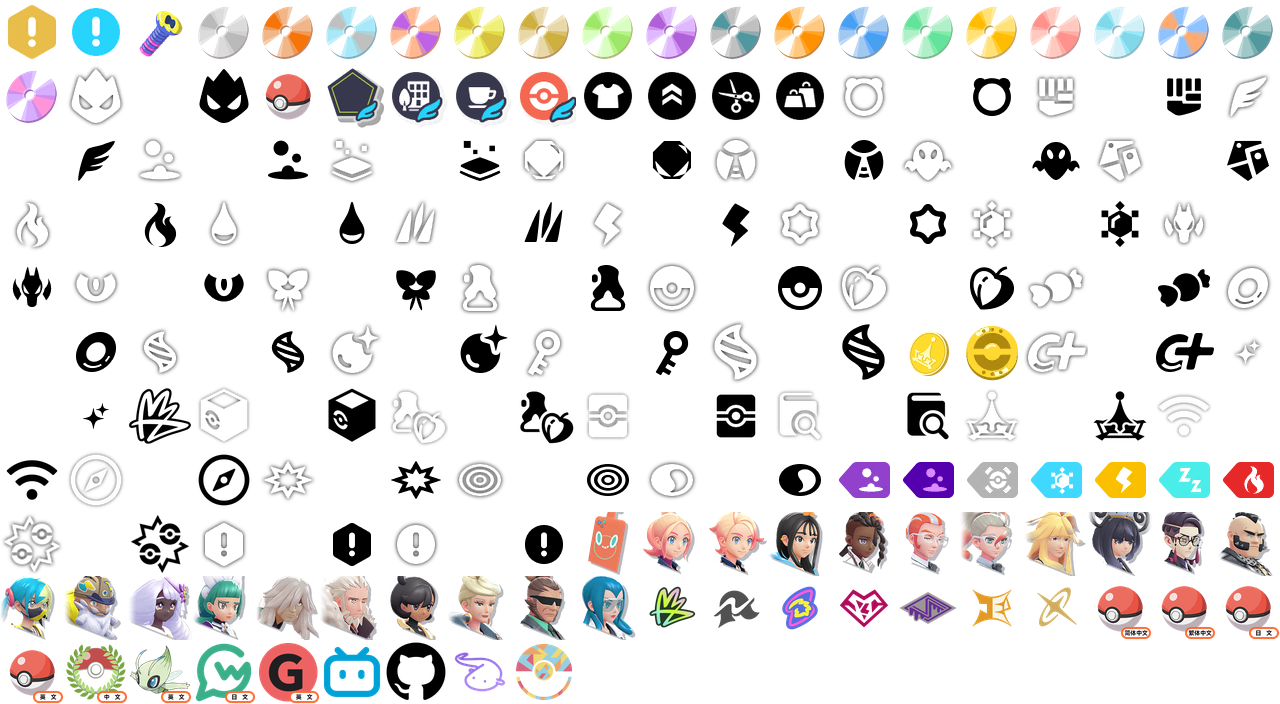
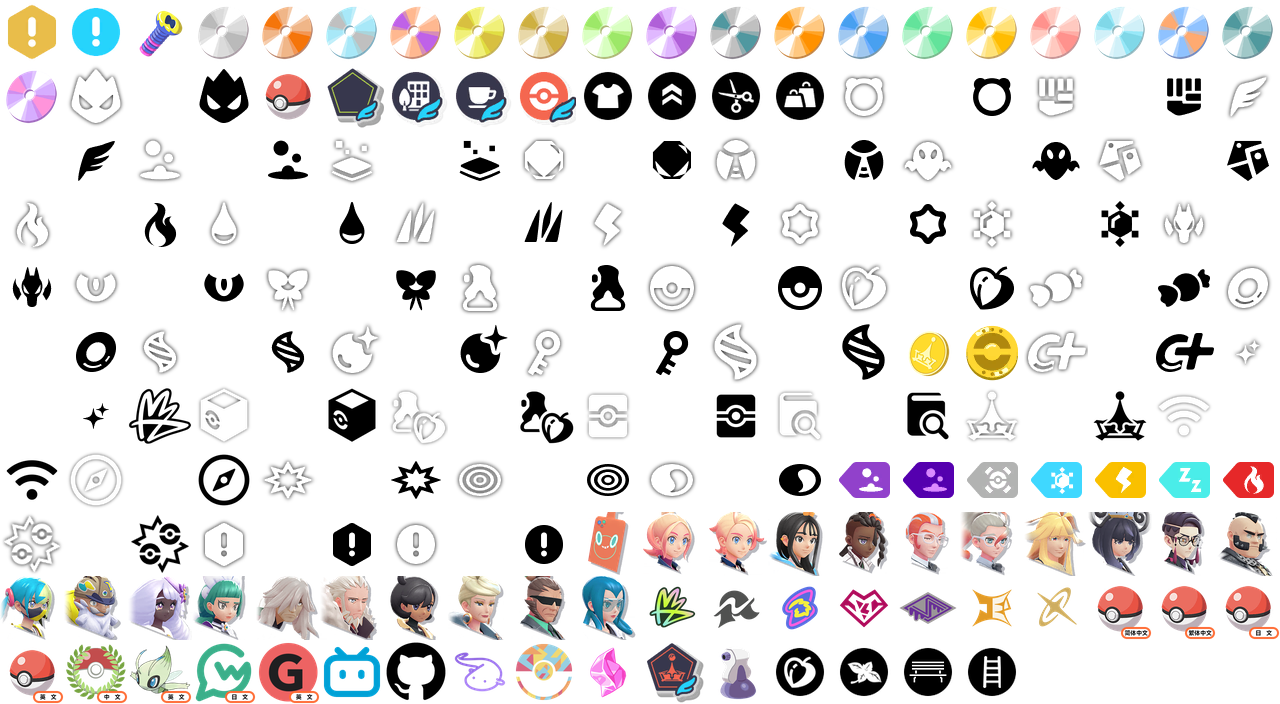
feat: 更新图标

Changed region(s): [[0.4375, 0.9062, 0.8125, 1.0]]

diff --git a/src/data/routes.ts b/src/data/routes.ts
@@ -63,7 +63,7 @@ export const HOME_NAVIGATIONS: IHomepageNavigation = [
         contents: [
           { path: "/宝可梦一览", label: "宝可梦", icon: "pokeball" },
           { path: "/招式一览", label: "招式", icon: "plus-black" },
-          { path: "/道具一览", label: "道具", icon: "passage" },
+          { path: "/道具一览", label: "道具", icon: "potion" },
           { path: "/招式学习器一览", label: "招式学习器", icon: "tm-妖精" },
         ],
       },
@@ -72,7 +72,7 @@ export const HOME_NAVIGATIONS: IHomepageNavigation = [
         contents: [
           { path: "/训练家一览", label: "全部训练家", icon: "money" },
           { path: "/ＺＡ登峰战", label: "ＺＡ登峰战", icon: "prize-medal" },
-          // { path: "/对战特区", label: "对战特区", icon: "battle-zone" },
+          { path: "/对战特区", label: "对战特区", icon: "battle-zone" },
           { path: "/联网活动", label: "联网活动", icon: "internet-black" },
         ],
       },

diff --git a/src/assets/css/icon.css b/src/assets/css/icon.css
@@ -1,8 +1,6 @@
 /* This file is auto-generated. Do not edit directly. */
 
 .icon {
-  background-image: url("../images/icon.webp");
-  background-size: 20em auto;
   background-position: -19em -10em;
 }
 
@@ -841,3 +839,32 @@
 .icon-sv-wiki {
   background-position: -8em -10em;
 }
+
+.icon-mega-shard {
+  background-position: -9em -10em;
+}
+
+.icon-battle-zone {
+  background-position: -10em -10em;
+}
+
+.icon-potion {
+  background-position: -11em -10em;
+}
+
+.icon-berry {
+  background-position: -12em -10em;
+}
+
+.icon-mint {
+  background-position: -13em -10em;
+}
+
+.icon-bench {
+  background-position: -14em -10em;
+}
+
+.icon-ladder {
+  background-position: -15em -10em;
+}
+
